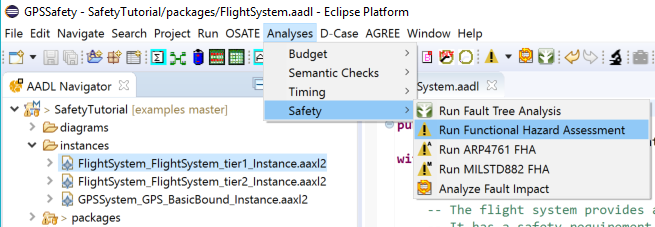
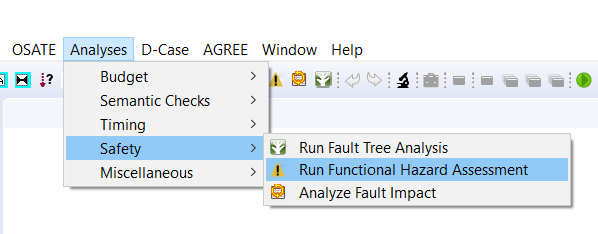
Updated the help text to mention the FHA preferences settings.  Updated the screen shots for FHA, FTA, and Fault impact.

diff --git a/org.osate.aadl2.errormodel.help/markdown/safetyanalysis.md b/org.osate.aadl2.errormodel.help/markdown/safetyanalysis.md
@@ -133,10 +133,16 @@ model. The same icon is used in the tool bar to identify the command.
 
 ![FHA Invocation](images/InvokeFHA.png "FHA Invocation")
 
-You will find three variant of the **Functional Hazard Assessment** command. The generic command 
-looks for EMV2::Hazards property values. The **Functional Hazard Assessment (ARP4761)** command 
-generates a report for APR4761::Hazards values. Finally, the 
-**Functional Hazard Assessment (MILSTD882)** command generates a report for MILSTD882::Hazards values.
+The **Functional Hazard Assessment** command uses one of three property sets.  The set that it uses is 
+controlled by the `OSATE > Analysis > Functional Hazard Assessment` pane in the OSATE
+preferences window:
+
+![FHA Preferences Pane](images/FHAPreferences.png "FHA Preferences Pane")
+
+The radio button has three settings:
+* **EMV2** to use the `EMV2::Hazards` property set
+* **MILSTD882** to use the `MILSTD882::Hazards` property set
+* **ARP4761** to use the `ARP4761::Hazards` property set
 
 The FHA report is a cvs file that can be found in the **reports** folder under the **FHA** 
 sub-folder.
